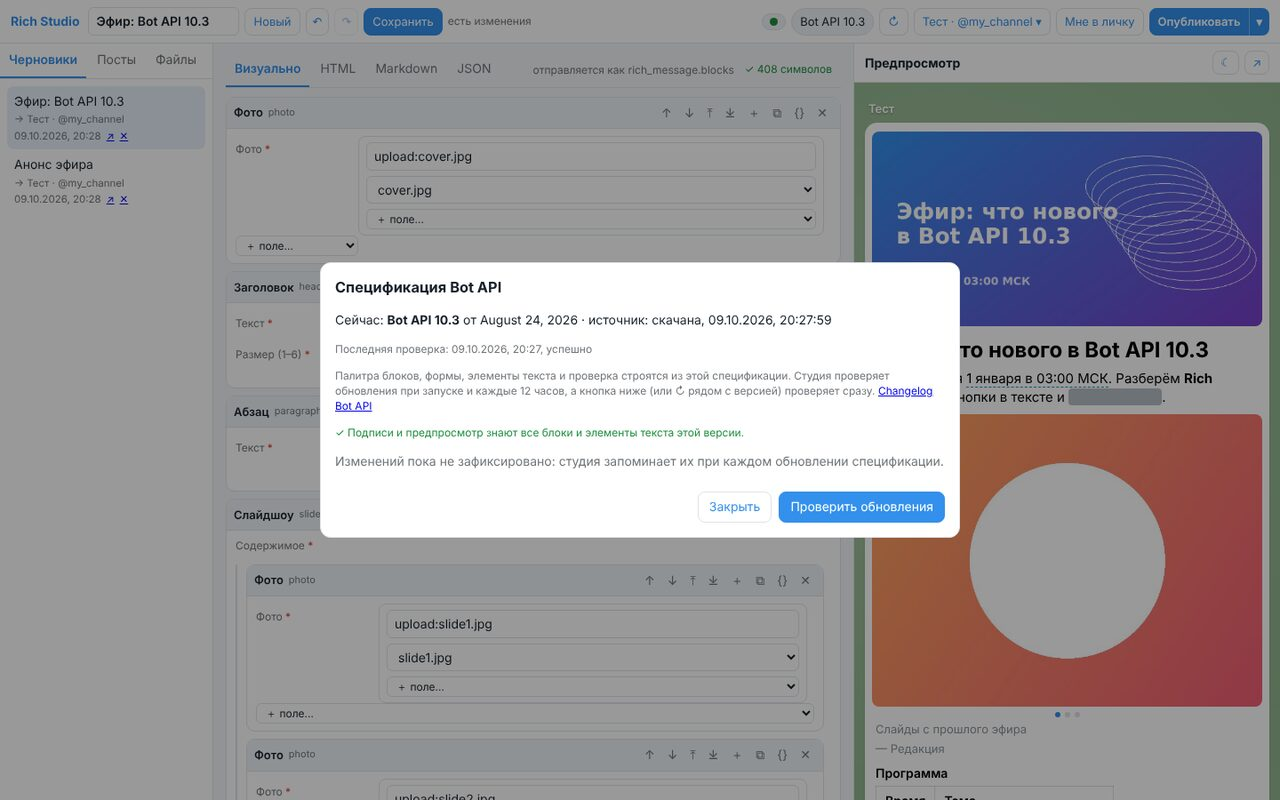
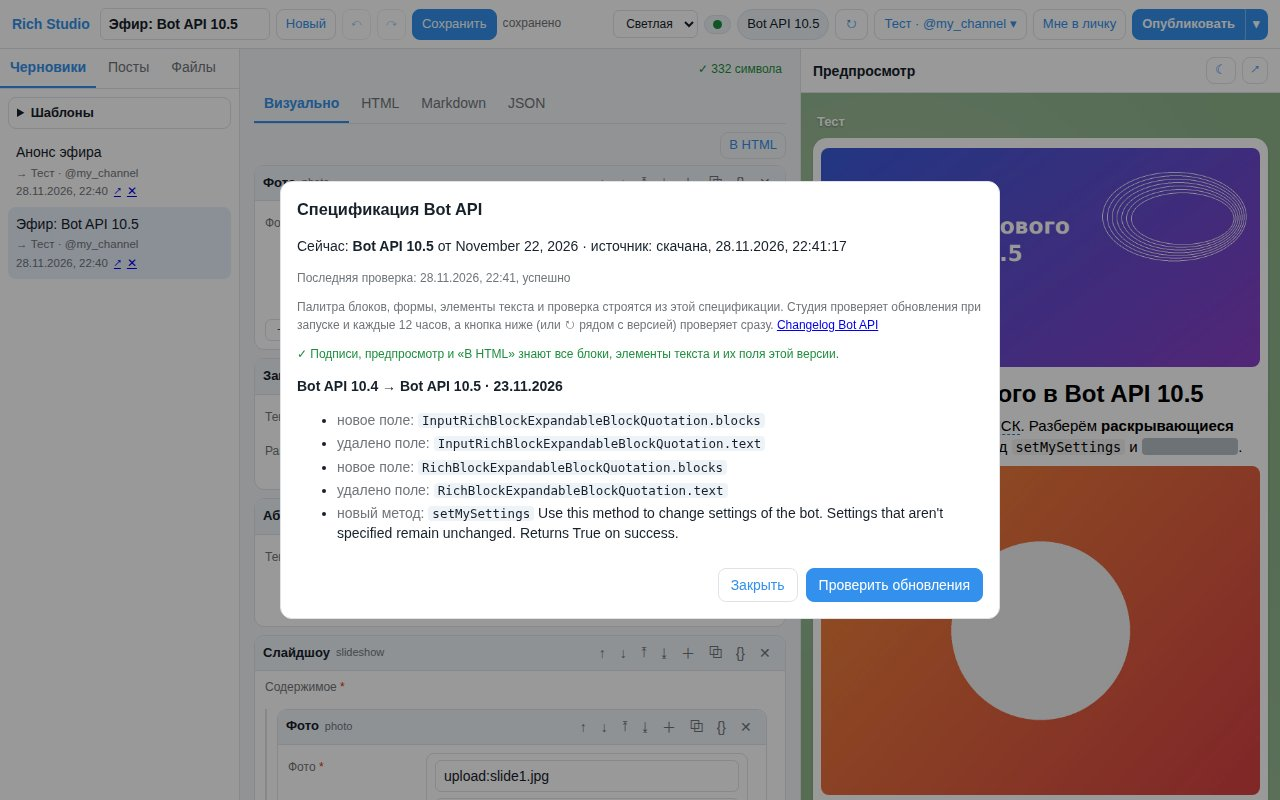
README: окно спецификации переснято на Bot API 10.5
На прежнем снимке была 10.3. Теперь в окне видны версия 10.5, источник, успешная проверка
и журнал изменений 10.4 → 10.5. Снято на подставном Telegram, как остальные картинки README.

Closes #252

diff --git a/README.md b/README.md
@@ -51,7 +51,7 @@ docker compose up -d --build
 
 HTML-виджеты (`sendWidget`) в каналы не отправляются, поэтому в редакторе их нет ([0024](docs/decisions/0024-no-widgets-in-editor.md)); их методы, как и любые другие, доступны через `/api/raw`.
 
-<img src="docs/images/spec.jpg" alt="Окно спецификации: версия Bot API, источник и кнопка проверки обновлений" width="640">
+<img src="docs/images/spec.jpg" alt="Окно спецификации: версия Bot API, источник, изменения с прошлой версии и кнопка проверки обновлений" width="640">
 
 ### Что обновляется вручную
 
